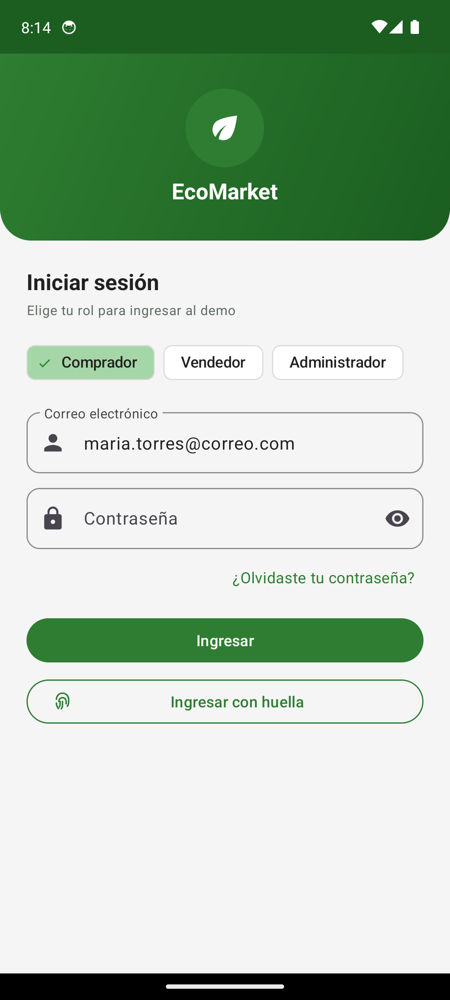
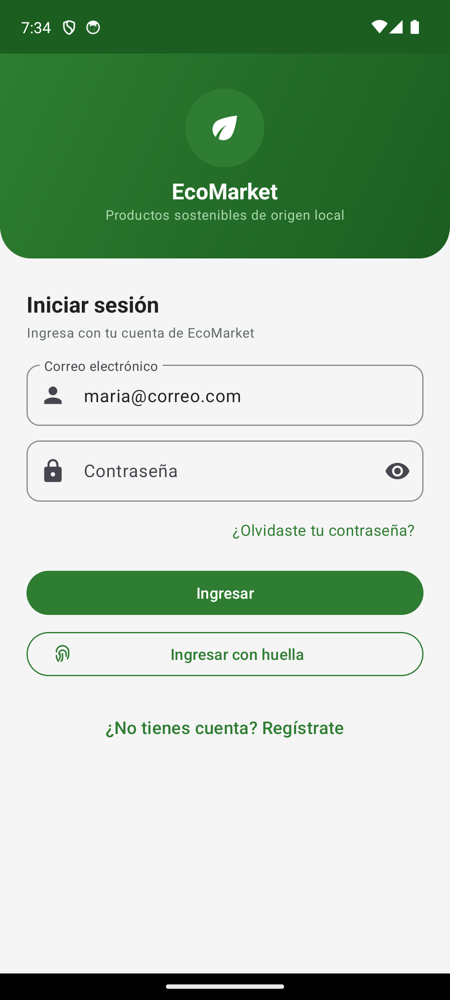
README del proyecto final, capturas actualizadas y pantalla de arranque con la marca

diff --git a/README.md b/README.md
@@ -1,72 +1,120 @@
 # EcoMarket – Tienda virtual de productos sostenibles (Android nativo)
 
-Aplicación Android nativa (Kotlin + XML) para la comercialización de productos sostenibles y artesanales colombianos. Este repositorio corresponde a la **Actividad 2: interfaces gráficas completas** de la asignatura *Desarrollo de Aplicaciones Móviles Nativas* (Fundación Universitaria Compensar). Parte del documento técnico y los mockups entregados en la Actividad 1.
+Aplicación Android nativa (Kotlin + XML) para comprar y vender productos sostenibles y artesanales colombianos. Este repositorio corresponde al **proyecto final (Actividad de Transferencia)** de la asignatura *Desarrollo de Aplicaciones Móviles Nativas* de la Fundación Universitaria Compensar. Continúa el documento técnico (Actividad 1) y las interfaces de la Actividad 2, y les da funcionamiento completo.
 
 **Autor:** Edward Iván Becerra Niño · **Docente:** Flavio Alexander Navarro Carmona
 
-## Requisitos
+## Funcionalidades
 
-- Android Studio Koala o superior (o JDK 17+ y Gradle Wrapper incluido)
-- Android SDK 34 · `minSdk 26` (Android 8.0) · `targetSdk 34`
+| Componente | Implementación |
+|---|---|
+| Autenticación | Registro (comprador o vendedor), inicio y cierre de sesión, recuperación y cambio de contraseña con **Firebase Authentication** |
+| Biometría | Ingreso con huella: `BiometricPrompt` + llave AES del **Android Keystore** que solo se desbloquea con la huella y cifra las credenciales |
+| CRUD de usuarios | El administrador lista, busca, crea, edita (rol y estado) y elimina usuarios en **Cloud Firestore** |
+| CRUD de productos | El vendedor crea, edita y elimina productos con foto tomada con la **cámara** o elegida de la **galería**, guardada en **Firebase Storage**; el administrador los aprueba o rechaza |
+| Carrito y órdenes | Carrito persistido en Firestore, órdenes con historial y estados: pendiente de pago → pagado → enviado → entregado |
+| Geolocalización | `FusedLocationProviderClient` (Google Play Services) obtiene la ubicación y `Geocoder` la convierte en la dirección de entrega |
+| Pasarela de pagos | **ePayco** Checkout dentro de un WebView; la transacción se confirma consultando la referencia (`ref_payco`) en los servidores de ePayco |
+| Reportes | Dashboard y reporte de ventas calculados en tiempo real a partir de las órdenes pagadas |
+
+## Arquitectura
+
+```
+app/src/main/java/com/ucompensar/ecomarket
+├── EcoMarketApp.kt          Inicializa Firebase (nube o emulador local)
+├── data/
+│   ├── model/               Modelos de Firestore (UserProfile, Product, CartItem, Order…)
+│   ├── repository/          AuthRepository, UserRepository, ProductRepository,
+│   │                        CartRepository, OrderRepository, ImageStorage
+│   ├── payment/             EpaycoGateway (checkout y validación) y PaymentResult
+│   └── Session.kt           Perfil del usuario autenticado
+├── security/                BiometricAuth y BiometricCredentialStore (Keystore)
+├── location/                LocationHelper (FusedLocationProvider + Geocoder)
+├── ui/
+│   ├── auth/                Login, registro y recuperación de contraseña
+│   ├── buyer/               Inicio, catálogo, detalle, carrito, checkout, pago, pedidos
+│   ├── seller/              Productos (CRUD con fotos) y pedidos recibidos
+│   ├── admin/               Dashboard, usuarios, moderación y reporte de ventas
+│   └── common/              Perfil, adaptador genérico y tarjetas de pedido
+└── util/                    Formato COP, insignias, manejo de errores y corrutinas
+```
+
+- Capas: **UI** (Activities y Fragments con ViewBinding) → **repositorios** (lógica de datos) → **Firebase SDK**.
+- Las pantallas escuchan Firestore con `Flow` (`dataObjects()`) solo mientras están visibles, así reflejan los cambios al instante.
+- Las operaciones de red usan corrutinas; los errores de Firebase se traducen a mensajes en español.
+
+### Modelo de datos (Cloud Firestore)
+
+| Colección | Documento | Contenido |
+|---|---|---|
+| `users` | `{uid}` | nombre, correo, teléfono, rol (`BUYER`, `SELLER`, `ADMIN`), estado, negocio |
+| `products` | `{id}` | nombre, descripción, precio, stock, categoría, vendedor, URL de la imagen, aprobación |
+| `carts/{uid}/items` | `{productId}` | cantidad y copia del precio |
+| `orders` | `{id}` | comprador, líneas, totales con IVA, dirección y coordenadas, estado, referencia de ePayco |
+
+Las reglas de seguridad están en [`firebase/firestore.rules`](firebase/firestore.rules) y [`firebase/storage.rules`](firebase/storage.rules): cada usuario solo lee y modifica lo suyo, el vendedor solo gestiona sus productos y el administrador gestiona todo.
 
 ## Cómo ejecutarla
 
+Requisitos: Android Studio (Koala o superior) o JDK 17, Android SDK 34, `minSdk 26`.
+
+### Opción A: proyecto de Firebase en la nube (dispositivo físico)
+
+1. Cree un proyecto en [console.firebase.google.com](https://console.firebase.google.com) y registre una app Android con el paquete `com.ucompensar.ecomarket`.
+2. Descargue `google-services.json` y cópielo en `app/`.
+3. Active **Authentication → Correo/contraseña**, **Firestore Database** y **Storage**. Storage puede pedir activar el plan Blaze, que tiene una capa gratuita.
+4. Publique las reglas: `firebase deploy --only firestore:rules,storage` (o péguelas en la consola).
+5. Cree la primera cuenta desde la app y, en la consola de Firestore, cambie su `role` a `ADMIN`.
+
+### Opción B: Firebase Emulator Suite (sin cuenta en la nube)
+
+Sin `google-services.json`, la app se conecta sola a los emuladores locales:
+
 ```bash
-./gradlew assembleDebug        # genera app/build/outputs/apk/debug/app-debug.apk
-./gradlew installDebug         # instala en un dispositivo o emulador conectado
+npm install -g firebase-tools
+firebase emulators:start --project demo-ecomarket   # Auth 9099, Firestore 8080, Storage 9199
+python3 tools/seed_emulator.py                       # usuarios y productos de demostración
+./gradlew installDebug
 ```
 
-El APK de validación también se entrega junto al proyecto (`EcoMarket-debug.apk`).
+Para un **teléfono físico** en la misma red Wi-Fi que el computador:
 
-### Acceso de demostración
+```bash
+python3 tools/seed_emulator.py --device-host 192.168.1.50   # IP del computador
+./gradlew installDebug -Pecomarket.emulatorHost=192.168.1.50
+```
 
-La app no tiene backend todavía (ver *Alcance*). En la pantalla de inicio de sesión se elige el rol (Comprador, Vendedor o Administrador); el correo se completa solo y **cualquier contraseña no vacía** es válida. El botón *Ingresar con huella* usa `BiometricPrompt`; si el dispositivo no tiene biometría registrada, entra con el rol elegido.
+Cuentas de demostración (contraseña `EcoMarket2026`):
 
-## Pantallas por rol
-
-| Rol | Pantallas |
+| Rol | Correo |
 |---|---|
-| Transversal | Splash, inicio de sesión con biometría, recuperación de contraseña, menú Drawer + Bottom Navigation, perfil |
-| Comprador | Inicio, catálogo (búsqueda y filtro por categoría), detalle de producto, carrito, pasarela de pagos (tarjeta, PSE, efectivo), perfil |
-| Vendedor | Panel de productos con CRUD completo (listar, crear, editar, eliminar), historial de pedidos recibidos con cambio de estado, perfil |
-| Administrador | Dashboard con indicadores, gestión de usuarios (listar, buscar, filtrar, crear, editar, eliminar), gestión de productos (aprobar/rechazar), reporte de ventas con gráfico |
+| Administrador | admin@ecomarket.co |
+| Vendedor | camila@ecomarket.co · andres@ecomarket.co |
+| Comprador | maria@correo.com · jorge@correo.com |
 
-Capturas en [`docs/capturas`](docs/capturas).
+### Pasarela de pagos ePayco
 
-## Estructura del proyecto
+1. Cree una cuenta en [epayco.com](https://epayco.com) y active el modo de pruebas.
+2. Copie la **llave pública** (Integraciones → Llaves API) en `gradle.properties`:
+   ```properties
+   EPAYCO_PUBLIC_KEY=su_llave_publica
+   EPAYCO_TEST=true
+   ```
+3. Pague con la tarjeta de prueba de ePayco: Visa `4575 6231 8229 0326`, vencimiento `12/27`, CVV `123`.
 
-```
-app/src/main
-├── java/com/ucompensar/ecomarket
-│   ├── data/            Modelos y repositorio en memoria (simula el backend REST)
-│   ├── ui/              Activities: Splash, Login, RecoverPassword, Main
-│   │   ├── buyer/       Fragments del comprador
-│   │   ├── seller/      Fragments del vendedor
-│   │   ├── admin/       Fragments del administrador + BarChartView (vista propia)
-│   │   └── common/      Perfil, SimpleAdapter genérico, enlace de pedidos
-│   └── util/            Formato COP, validaciones, insignias de estado
-└── res
-    ├── layout/          activity_*, fragment_*, item_*, view_*
-    ├── drawable/        Fondos (shapes), insignias, íconos vectoriales, launcher
-    ├── menu/            Menús por rol (bottom navigation) y drawer
-    ├── color/           Selector de color de chips
-    └── values/          colors, dimens, strings, styles, themes, ids
+La llave incluida por defecto es la de demostración del repositorio oficial de ejemplos de ePayco: abre el checkout, pero ePayco rechaza la transacción porque no pertenece a un comercio activo.
+
+### APK
+
+```bash
+./gradlew assembleDebug     # app/build/outputs/apk/debug/app-debug.apk
+./gradlew assembleRelease   # app/build/outputs/apk/release/app-release.apk (firma de depuración)
 ```
 
-## Decisiones de diseño y recursos centralizados
+## Capturas
 
-- **Paleta propia** (no la predeterminada de Android Studio): verde `#2E7D32`, verde claro `#A5D6A7`, naranja `#FF7043`, definida solo en `values/colors.xml`.
-- **Tema Material 3** personalizado en `values/themes.xml`; estilos reutilizables de botones, tarjetas, campos, chips y texto en `values/styles.xml`.
-- Ningún layout define colores, dimensiones ni textos fijos: todo se referencia con `@color`, `@dimen`, `@string` y `@style`.
-- **Drawables**: fondos con `shape` (cabecera degradada, banner, insignias de estado, avatar), `layer-list` para el ícono y vectores para toda la iconografía.
-- **ViewBinding** en todas las pantallas y un `SimpleAdapter<T, VB>` genérico para las listas.
-- **Navegación por rol**: `MainActivity` infla el menú del rol autenticado y reemplaza fragments; el Drawer y el Bottom Navigation quedan sincronizados.
-- Accesibilidad: `contentDescription` en íconos, contraste AA y textos escalables (`sp`).
-
-## Alcance
-
-Esta entrega cubre el *frontend*. Los datos viven en `data/Repository.kt` (memoria) y se reinician al cerrar la app. Quedan para las siguientes actividades: API REST (Retrofit), persistencia, cámara, geolocalización, OAuth y pasarela de pagos real, tal como se planeó en el documento técnico.
+En [`docs/capturas`](docs/capturas) hay capturas de cada pantalla por rol.
 
 ## Control de versiones
 
-El historial sigue el avance incremental: andamiaje y recursos → pantallas transversales y rol Comprador → rol Vendedor → rol Administrador → correcciones visuales y de alcance.
+El historial refleja el avance por actividades: recursos e interfaces (Actividad 2), y luego configuración de Firebase, capa de datos, autenticación, comprador, vendedor y administrador (Transferencia).
